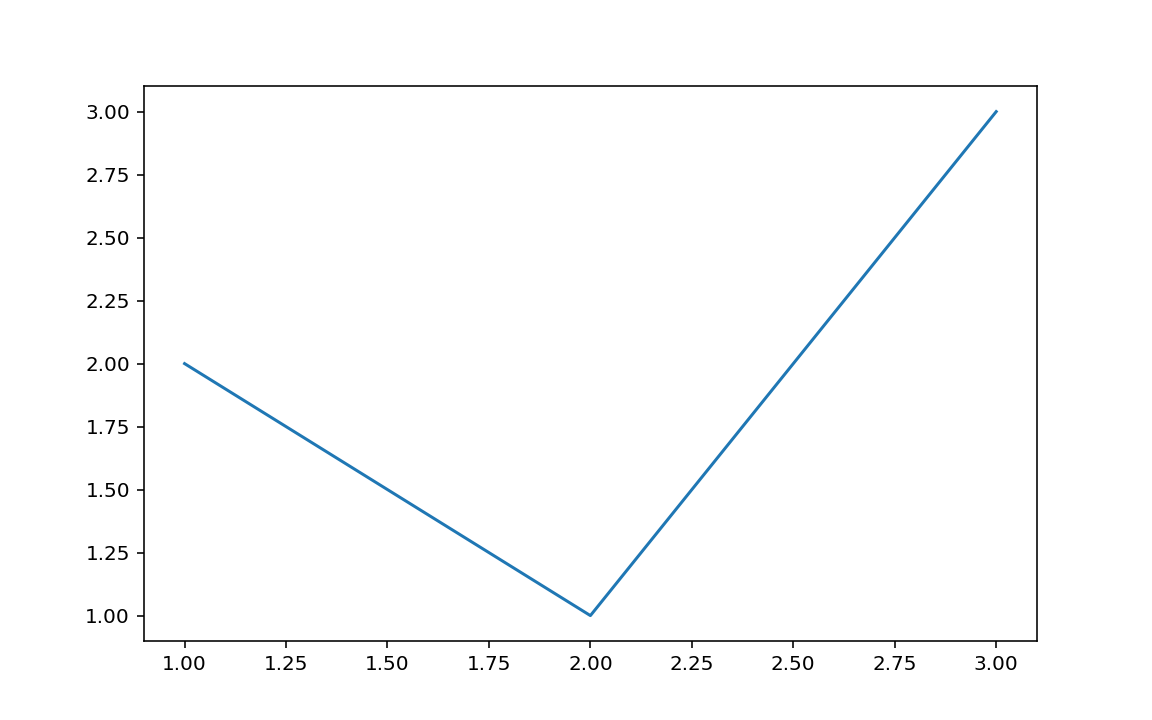
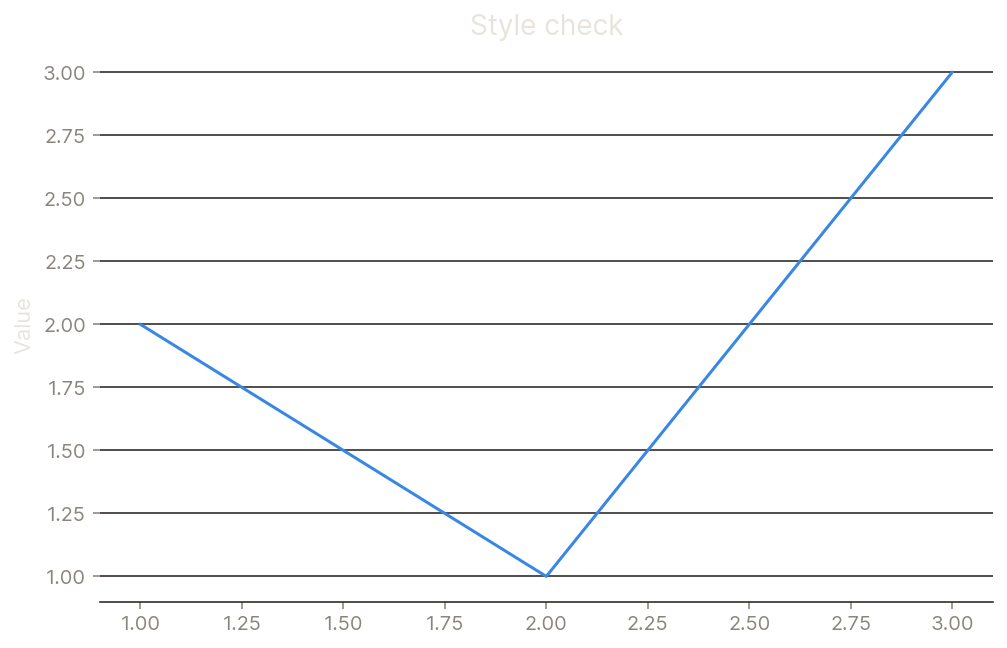
matplotlib house style for dark exports
Transparent background, site fonts and tokens, minimal chart junk.
Palette selected under the dataviz skill; chart colors never enter site CSS.

diff --git a/charts/palette.py b/charts/palette.py
@@ -1,0 +1,51 @@
+"""Chart palette. These colors appear ONLY inside chart images.
+
+Site thesis: color is reserved for data. The interface is monochrome, so
+these hexes must never be added to site CSS — the design lint rejects any
+color outside the four interface tokens, and that is correct behaviour.
+"""
+
+from matplotlib.colors import LinearSegmentedColormap
+
+# Site tokens, mirrored so charts match the page exactly.
+BG = "#0F0E0C"
+FG = "#E8E4DC"
+MUTED = "#8A857C"
+
+# Categorical palette chosen under the dataviz skill: colorblind-safe and
+# legible on BG, validated at >=3:1 contrast against the site surface.
+# Order matters — it is the colorblind-safety mechanism. Do not reorder.
+CATEGORICAL = [
+    "#3987e5",  # blue
+    "#199e70",  # aqua
+    "#c98500",  # yellow
+    "#e66767",  # red
+    "#008300",  # green
+    "#d95926",  # orange
+]
+
+# Sequential ramp: single-hue blue, light -> dark. For continuous data
+# encoded as a gradient (e.g. heatmaps, magnitude fills).
+SEQUENTIAL = LinearSegmentedColormap.from_list(
+    "house_seq",
+    [
+        "#cde2fb",
+        "#9ec5f4",
+        "#6da7ec",
+        "#3987e5",
+        "#256abf",
+        "#184f95",
+        "#0d366b",
+    ],
+)
+
+# Diverging ramp: blue <-> gray <-> red, warm dark-gray midpoint. For data
+# with a meaningful zero/neutral point (e.g. deltas, differences).
+DIVERGING = LinearSegmentedColormap.from_list(
+    "house_div",
+    [
+        "#3987e5",  # blue pole
+        "#383835",  # midpoint
+        "#e66767",  # red pole
+    ],
+)

diff --git a/charts/README.md b/charts/README.md
@@ -1,0 +1,28 @@
+# Chart house style
+
+Every chart on the site is exported through `house.mplstyle`. Consistency across
+charts is what makes the site read as designed rather than generated.
+
+## Usage
+
+```python
+import matplotlib.pyplot as plt
+plt.style.use('charts/house.mplstyle')
+
+fig, ax = plt.subplots(figsize=(8, 5))
+# ... plot ...
+fig.savefig('src/assets/viz/my-chart.png')  # transparent bg, site fonts
+```
+
+## Rules
+
+- Never export a white background. The site is `#0F0E0C`.
+- Categorical colors come from `palette.py`. Do not invent per-chart colors.
+- Gradients ARE allowed here: a sequential colormap encoding a continuous
+  variable is correct data visualization. The site's gradient ban covers
+  decorative CSS only, and the lint never inspects images.
+- Chart palette colors must never be added to site CSS.
+
+## Re-exporting existing charts
+
+Existing charts predate this style and must be re-exported through it.
